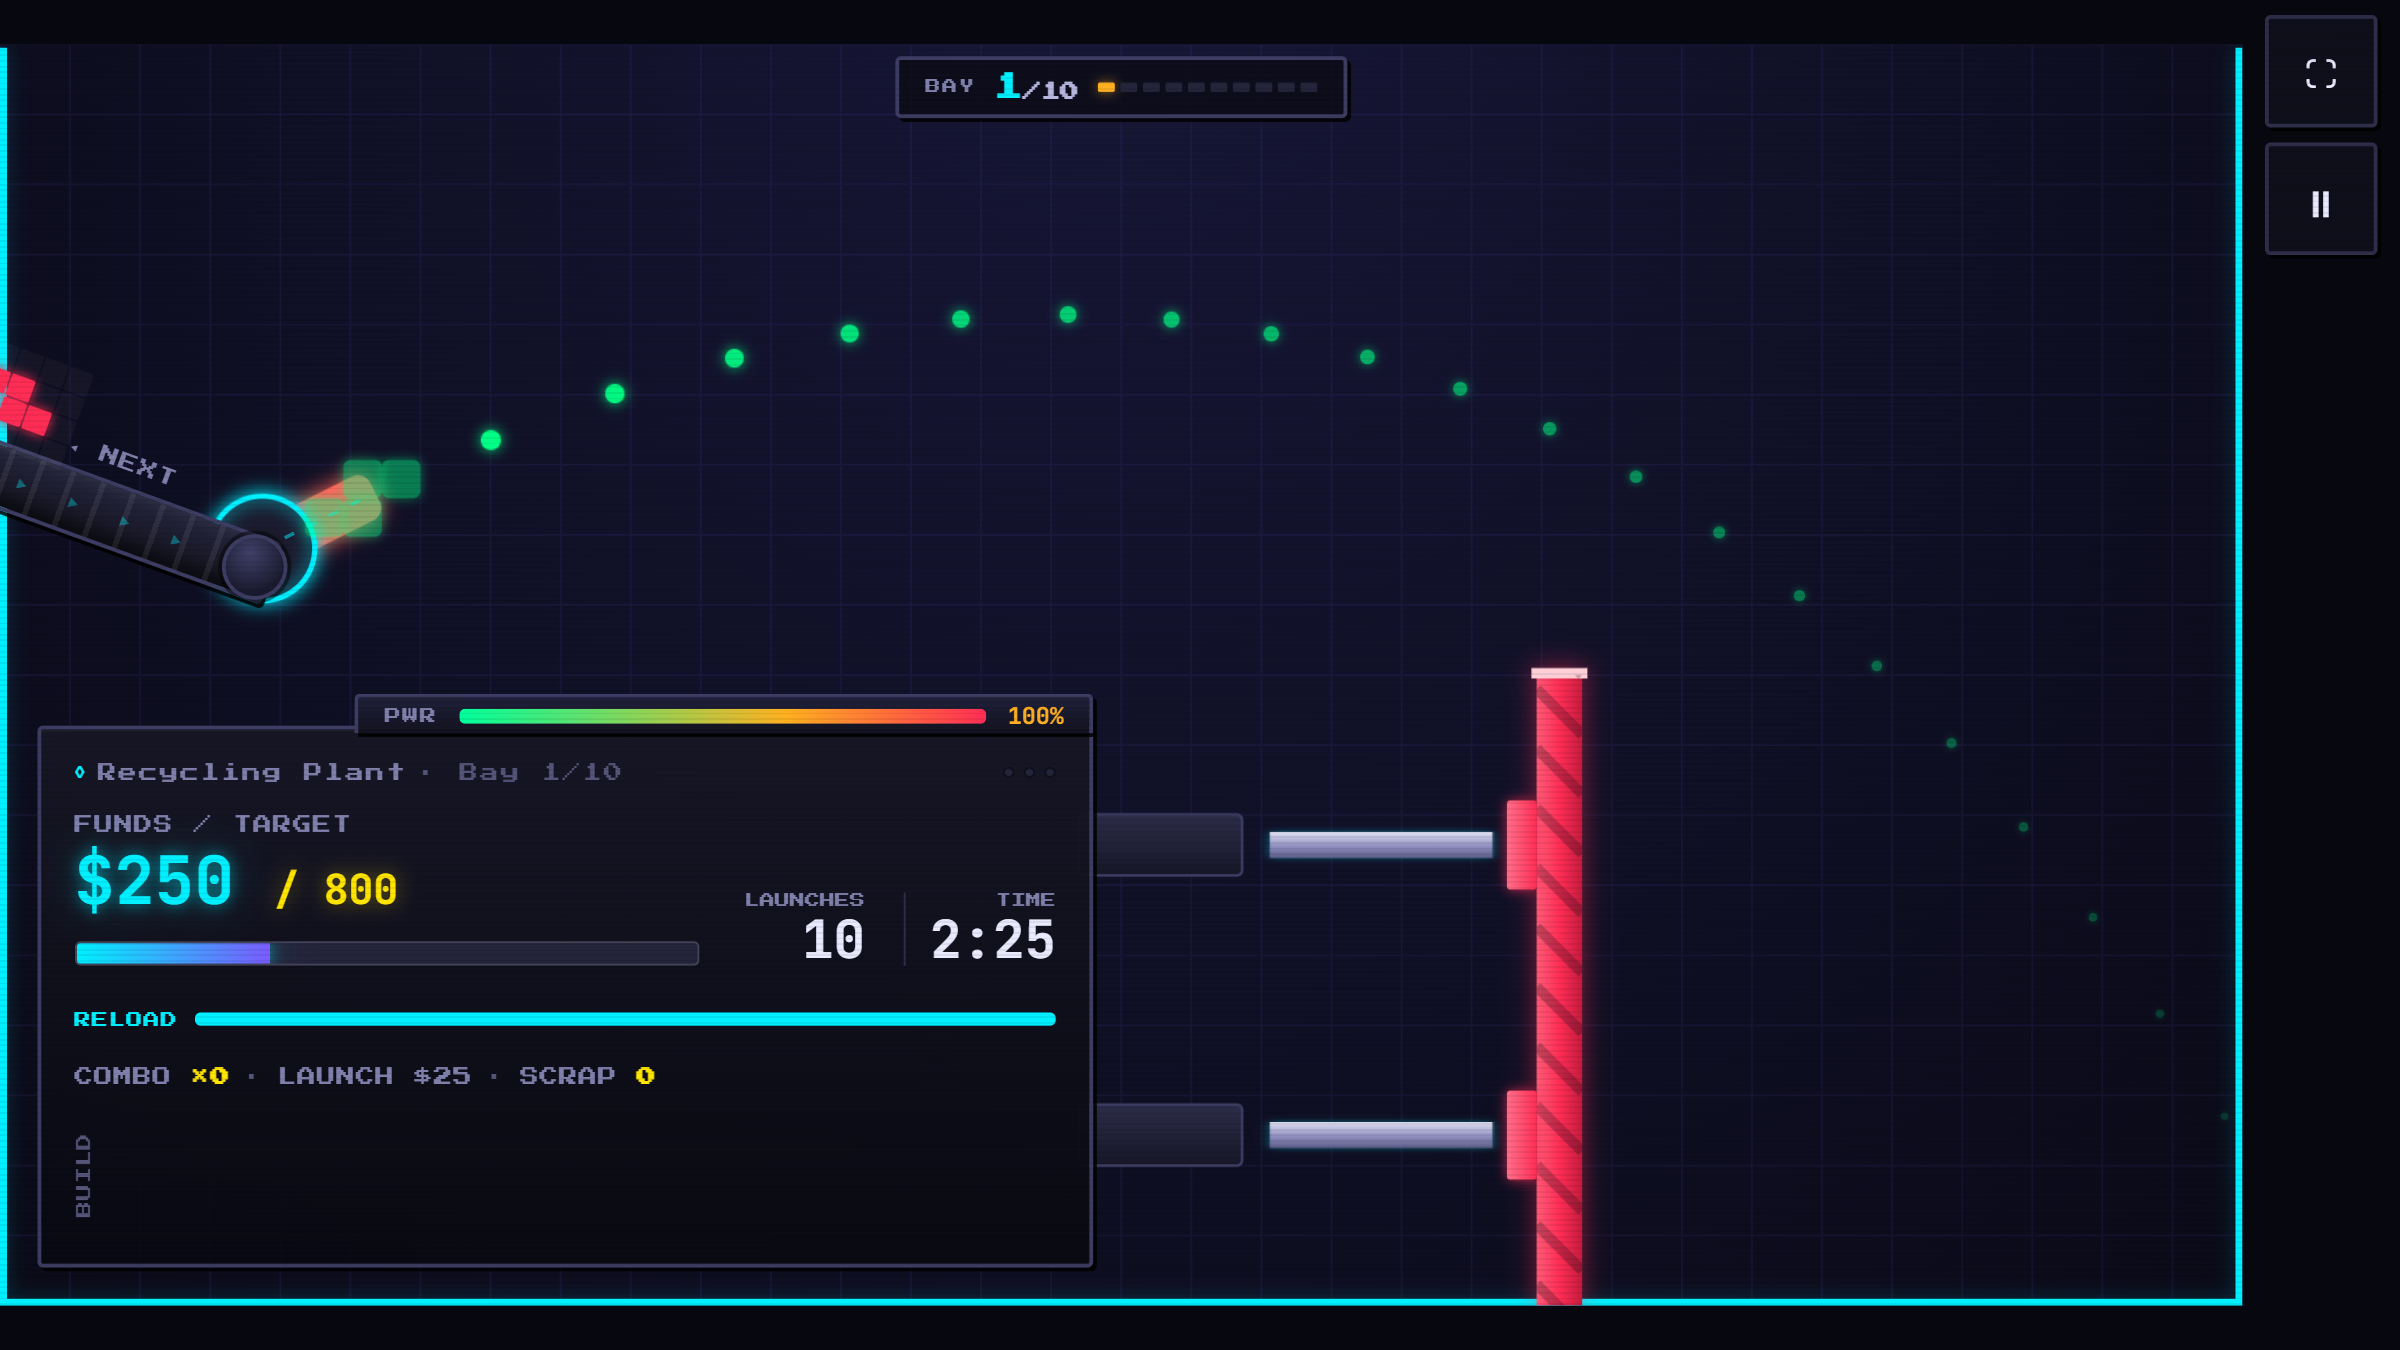
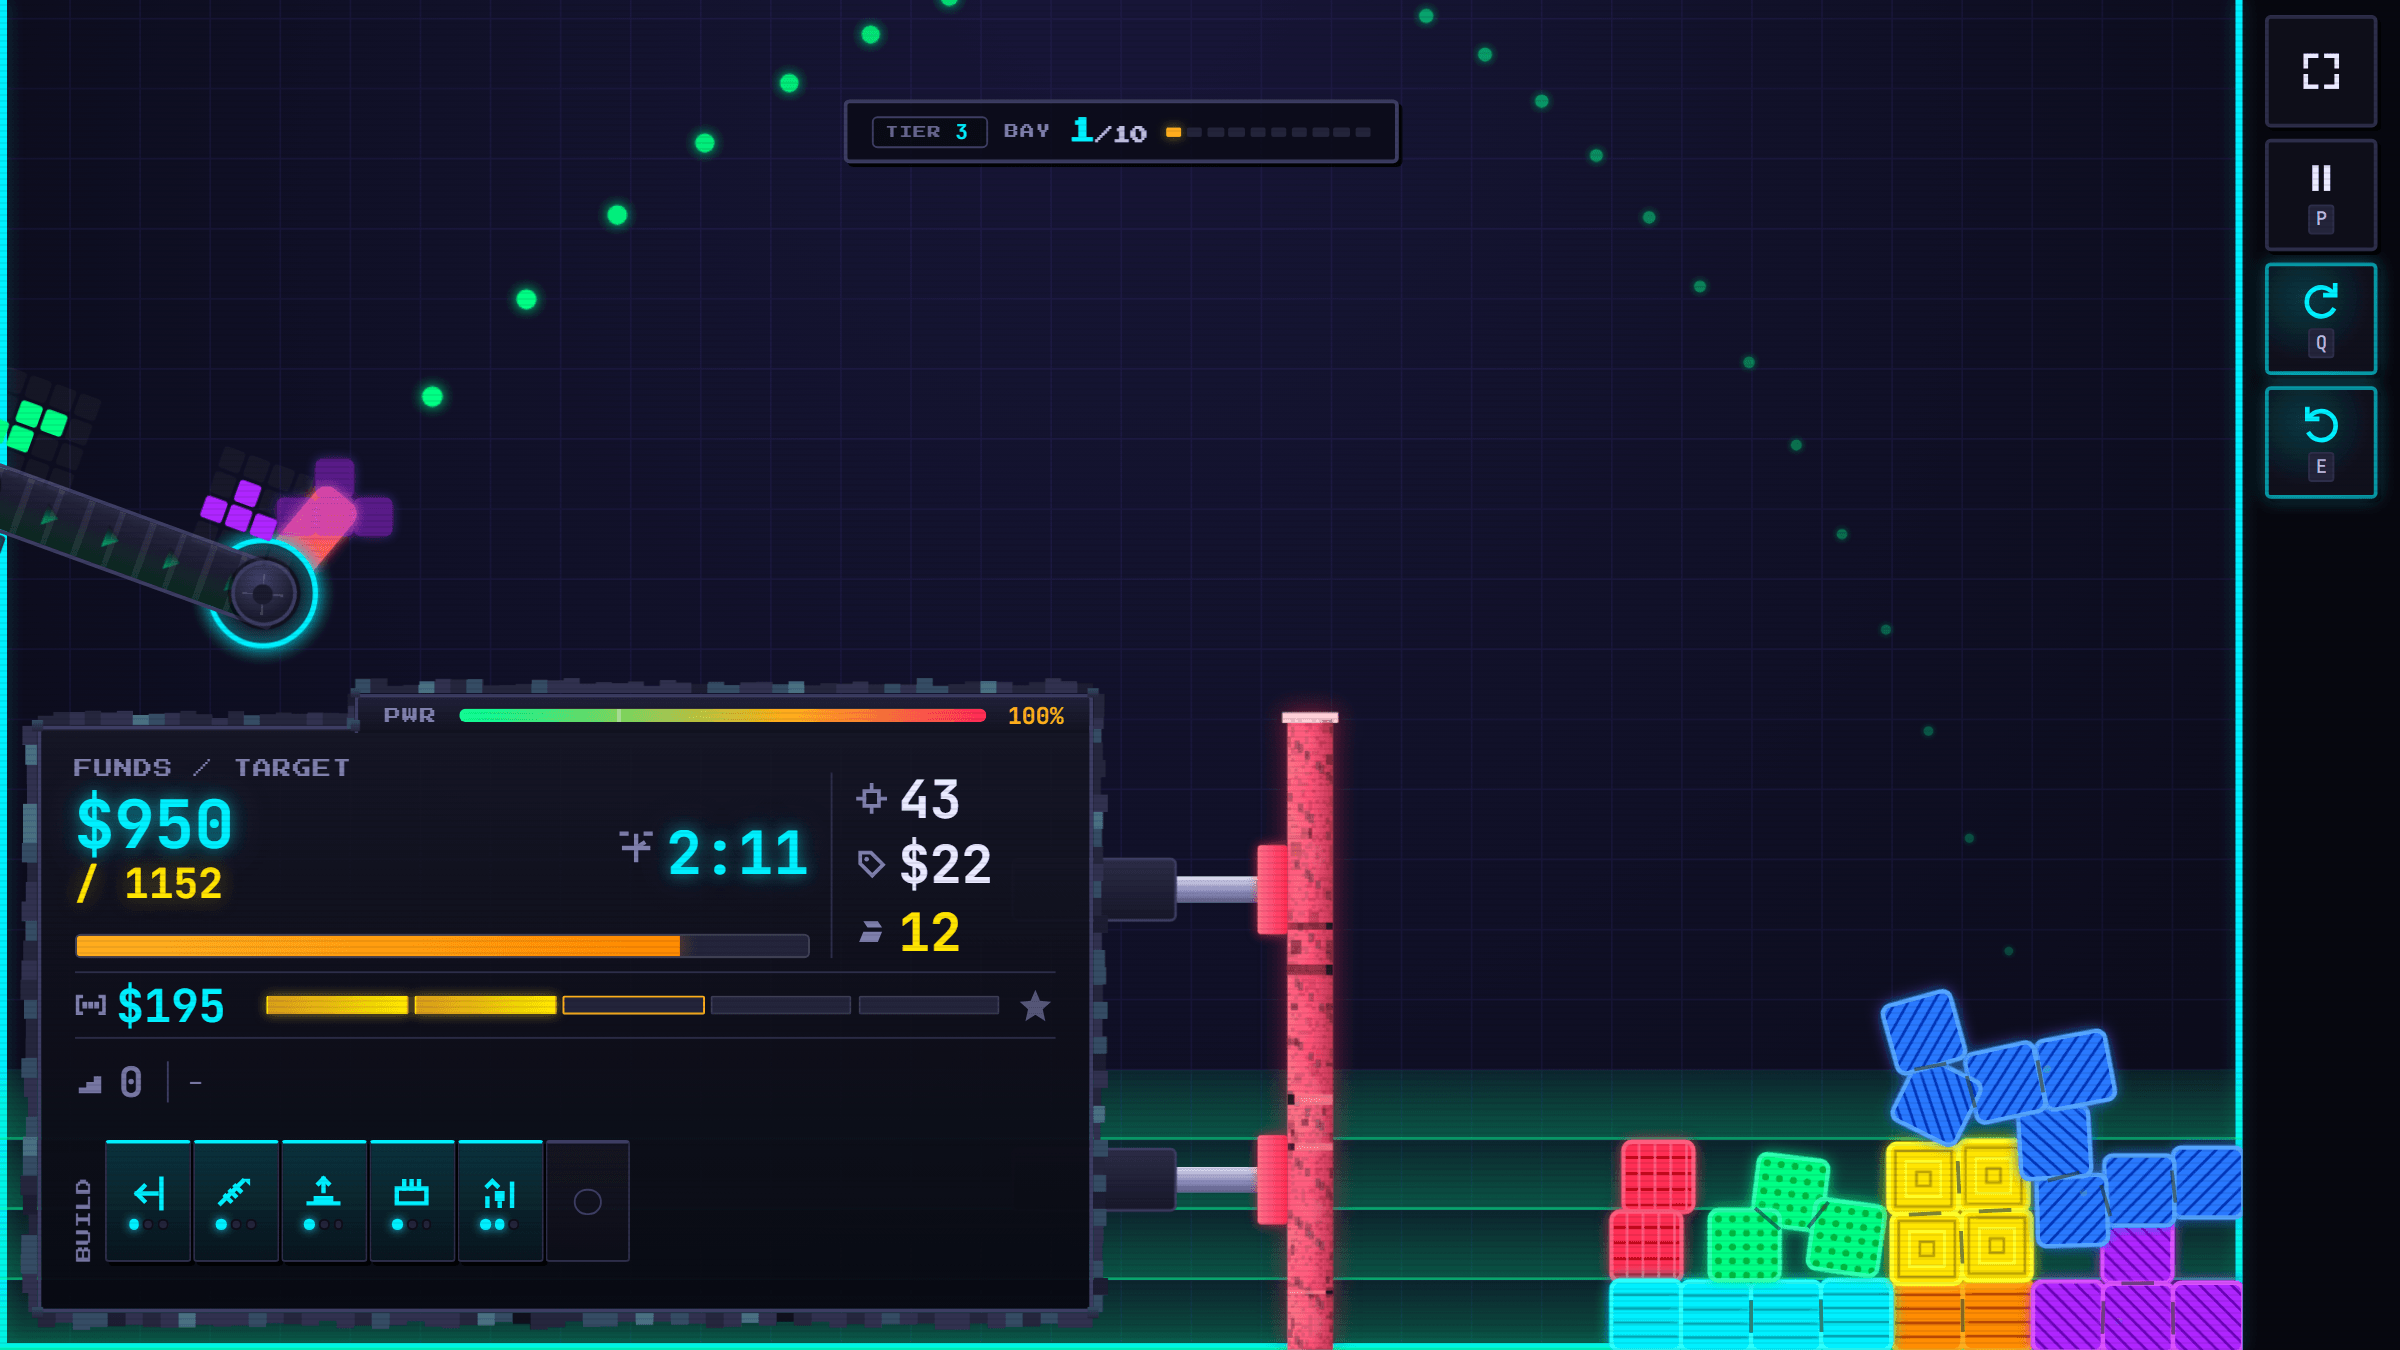
/about: regenerate every screenshot from the current build, add Contracts
The five gallery PNGs were copies of store/play/ and predated the gold chain
ladder, the heated goal bar, the new rail icons and the HUD readout — the
owner's verdict on the PR was "images still show the old UI". All six are now
frames of the live game captured headlessly (Playwright against the dev
build, a seeded mid-ladder save, mouse hover for the aim arc), at the same
2400x1350 16:9 recipe docs/PLAY.md uses for the store set: menu, Workshop and
the new Contracts board at 960x540 x2.5; aim, launch and stacked bay at
1280x720 x1.875. Lossless PNG; 1.42 MB total for six against 3.6 MB for five.

Copy is brought in line with the game: the Deep Run card no longer says a
clear "lets you" ratchet (the draft is forced) or that the refit spends
salvage (it spends scrap); Contracts state the no-clock/no-launch-cost terms;
a note introduces Flight School. A Steam CTA is left as a commented
placeholder — App 5270760 has no documented store URL yet. Explicit
width/height on every gallery image so the strip does not reflow as the
lazy images land.

Claude-Session: https://claude.ai/code/session_018WRA3uBckn2DUn3YyJzwem

diff --git a/app/public/about.html b/app/public/about.html
@@ -11,20 +11,36 @@
   framework and NO external/runtime requests. Every asset it loads is
   first-party from this same origin — the brand fonts (/fonts, self-hosted so
   the app never phones fonts.gstatic.com), the logo (/favicon.svg) and the
-  screenshots (/about/*.png, copied from store/play into public/ so the site can
-  actually serve them). Keep it that way: this page has to load and look right
-  even if the game bundle is broken.
+  screenshots (/about/*.png). Keep it that way: this page has to load and look
+  right even if the game bundle is broken.
+
+  THE SCREENSHOTS ARE FRAMES OF THE REAL GAME, captured headlessly from the
+  dev build (Playwright, the same engine the uifit harness uses) against a
+  seeded mid-ladder save: menu, Workshop and Contracts at 960x540 CSS x2.5,
+  the three bay shots at 1280x720 x1.875 — 2400x1350 each, the same 16:9
+  recipe docs/PLAY.md describes for the store set. They go stale every time
+  the HUD changes, so regenerate ALL of them rather than swapping one; a
+  gallery with two generations of chrome in it reads as two different games.
+  store/play/ is a separate set for the store listings and is not this page's
+  source.
 
   The game stays untouched at the apex — this is a SEPARATE page at /about, not
   the front door. The PWA service worker is told not to shadow it: see
   navigateFallbackDenylist in vite.config.ts, which lists /about alongside the
-  policy pages.
+  policy pages. The page and its gallery are also WEB-ONLY: vite.config.ts
+  keeps them out of the service-worker precache (workbox.globIgnores) and
+  deletes them from every native/desktop bundle (stripWebOnly), so ~1.4 MB of
+  promo PNG never ships inside the app it advertises.
 
   Beta links are the payload; if any change, change them here:
     - iOS TestFlight: https://testflight.apple.com/join/nfQJAZJK
     - Android closed test (join the Google group first): https://groups.google.com/g/tetrilaunch
     - Web: the game itself at / (best in landscape)
     - Desktop (Mac/Windows): GitHub Releases — swap for direct links once they exist.
+    - Steam: App ID 5270760 (docs/STEAM.md). The store page is not live and no
+      store URL is documented yet, so the Steam button below is a COMMENTED
+      placeholder — fill in the URL from the Steamworks partner site once the
+      "Coming Soon" page is approved, and do not guess it before then.
 -->
 <html lang="en">
   <head>
@@ -607,24 +623,28 @@
       <div class="wrap">
         <div class="gallery">
           <figure class="shot">
-            <img src="/about/aim-arc.png" alt="Aiming a shot: a dotted parabola previews the tetromino's flight across the bay" loading="lazy" />
+            <img src="/about/aim-arc.png" width="2400" height="1350" alt="Aiming a shot in a Deep Run bay: a dotted parabola arcs from the cannon over the compactor piston toward a pile of settled tetrominoes, with the funds-versus-target readout and the ship's system rack in the plant panel" loading="lazy" />
             <figcaption><b>Aim.</b> Drag to set angle and power — a dotted arc previews the flight.</figcaption>
           </figure>
           <figure class="shot">
-            <img src="/about/launch.png" alt="A tetromino mid-flight, arcing across the bay after launch" loading="lazy" />
-            <figcaption><b>Launch.</b> Tetromino shipments fly across the bay and settle into the pile.</figcaption>
+            <img src="/about/launch.png" width="2400" height="1350" alt="A green tetromino mid-flight along the aim arc, about to land on the pile at the back of the bay" loading="lazy" />
+            <figcaption><b>Launch.</b> Shipments fly under real physics and settle wherever they land.</figcaption>
           </figure>
           <figure class="shot">
-            <img src="/about/stacked-bay.png" alt="A bay filling up with stacked tetrominoes and the compactor bar" loading="lazy" />
+            <img src="/about/stacked-bay.png" width="2400" height="1350" alt="A bay stacked high with tetrominoes against the back wall, the compactor piston pushing in from the left, eighteen lines cleared and the funds bar closing on its target" loading="lazy" />
             <figcaption><b>Compact.</b> The compactor sweeps in — land full rows before it clears them.</figcaption>
           </figure>
           <figure class="shot">
-            <img src="/about/workshop.png" alt="The Workshop screen showing permanent ship-system upgrades bought with salvage" loading="lazy" />
+            <img src="/about/workshop.png" width="2400" height="1350" alt="The Workshop: a rack of five installed ship systems, a build budget readout and a Launcher Coils upgrade card priced in salvage" loading="lazy" />
             <figcaption><b>Refit.</b> Spend salvage on permanent ship systems between runs.</figcaption>
           </figure>
           <figure class="shot">
-            <img src="/about/menu.png" alt="The Tetrilaunch main menu with Deep Run, Contracts and Workshop" loading="lazy" />
-            <figcaption><b>Progress.</b> Ten tiers, per-tier leaderboards, daily contracts.</figcaption>
+            <img src="/about/contracts.png" width="2400" height="1350" alt="The Contracts board: today's three contracts — a Lines contract with a launch budget, a Set Piece contract and a zero-waste Pattern contract — each paying salvage" loading="lazy" />
+            <figcaption><b>Contracts.</b> Three a day, no clock, no launch cost — retry as often as you like.</figcaption>
+          </figure>
+          <figure class="shot">
+            <img src="/about/menu.png" width="2400" height="1350" alt="The Tetrilaunch main menu: the attract demo, the ten-floor tier tower parked on Tier 3, and the Deep Run, Contracts and Workshop buttons" loading="lazy" />
+            <figcaption><b>Progress.</b> Climb the tier tower — ten Tiers, each with its own leaderboard.</figcaption>
           </figure>
         </div>
       </div>
@@ -671,21 +691,26 @@
             <span class="tag">DEEP RUN</span>
             <h3>The gauntlet</h3>
             <p>
-              Ten bays, one life. Each bay you clear lets you ratchet one axis of
-              difficulty and refit your ship with salvage. Ten tiers, each with its
-              own leaderboard — how deep can you get?
+              Ten bays, one life. Every bay you clear deals a hazard draft — take
+              a notch and it sticks for the run — and every third bay docks you
+              at a refit stop to spend scrap on the ship. Ten Tiers, each with
+              its own leaderboard: how deep can you get?
             </p>
           </div>
           <div class="mode contracts">
             <span class="tag">CONTRACTS</span>
             <h3>Quick challenges</h3>
             <p>
-              Short, self-contained bays you can retry as much as you like. A fresh
-              set every day from a shared seed — including a zero-waste pattern
-              contract for the perfectionists.
+              Short, self-contained bays with no clock and no launch cost, free to
+              fail and retry. Three fresh ones every day from a shared seed —
+              including a zero-waste pattern contract for the perfectionists.
             </p>
           </div>
         </div>
+        <p class="note">
+          New pilots start in <b>Flight School</b>: ten short lessons that teach the
+          drag, the compactor and the economy, and hand you the licence for Tier 1.
+        </p>
       </div>
     </section>
 
@@ -715,6 +740,15 @@
             <span class="lead">Mac &amp; Windows</span>
             <span class="sub">Desktop builds →</span>
           </a>
+          <!-- STEAM — PLACEHOLDER, deliberately not rendered. App ID 5270760
+               (docs/STEAM.md); the store page is not live and no URL is
+               documented. Once the Coming Soon page is approved, paste the
+               store URL from Steamworks here and uncomment:
+          <a class="btn btn-block" href="STEAM_STORE_URL" target="_blank" rel="noopener">
+            <span class="lead">Steam</span>
+            <span class="sub">Coming soon — wishlist →</span>
+          </a>
+          -->
         </div>
         <p class="note">
           On Android, join the Google group first — that's what adds you to the Play
